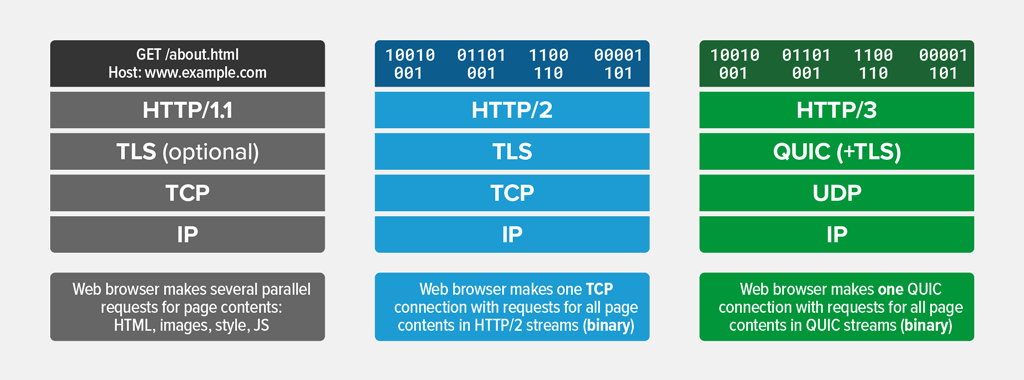
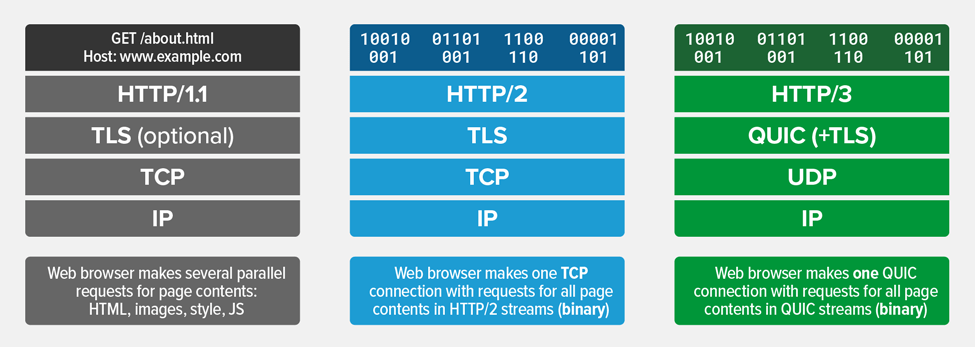
HTTP

diff --git a/stem/it/computer-science/computer-networking/communication-protocol/protocol-layer/http.md b/stem/it/computer-science/computer-networking/communication-protocol/protocol-layer/http.md
@@ -15,8 +15,10 @@
     - Line Feed (LF)：`\n`
 
 # HTTP Connection
+<div align="center"><img src="./image/http-connection.png" width="55%"></div>
+
 - ### HTTP Non-persistent/Persistent Connection
-    <img src="./image/http-connection.png" width="55%">
+    <img src="./image/http-persistent.png" width="50%">
 
     - ### HTTP Non-persistent Connection (HTTP/0.9, [HTTP/1.0](#http10))
         1. TCP connection opened
@@ -27,9 +29,16 @@
         2. send and receive Multiple HTTP requests/responses
         3. TCP connection closed
 - ### Pipelining (HTTP/1.1)
-    <img src="./image/http-pipelining.png" width="55%">
-- ### Multiplexing (HTTP/2)
-
+    <img src="./image/http-pipelining.png" width="50%">
+    
+    - #### [HTTP HOL Blocking]()
+- ### Multiplexing over a Single TCP Connection (HTTP/2)
+    - #### [Multiplexing](../../network-access/multiple-access.md#multiplexing)
+    - #### [TCP HOL Blocking]
+- ### Head-of-Line Blocking (HOL Blocking)：when a queue of packets is held up by the first packet in the queue
+    - ### HTTP HOL Blocking (Pipelining)
+        <img src="./image/http-hol-blocking.png" width="40%">
+    - ### TCP HOL Blocking (Multiplexing)：
 
 # HTTP Version
 <div align="center"><img src="./image/http-version.png" width="85%"></div>
@@ -40,11 +49,11 @@
     - #### HTTP Connection
         - [HTTP Persistent Connection](#http-persistent-connection-http11)
         - [HTTP Pipelining (Optional)](#pipelining-http11)
+    - #### HTTP HOL Blocking
 - ### HTTP/2
     - #### HTTP Connection：[Multiplexing](../../network-access/multiple-access.md#multiplexing)
 - ### HTTP/3
     - #### HTTP/3 over [QUIC](protocol-layer.md#quic)
-- ### Head-of-Line Blocking (HOL Blocking)
 
 # HTTP Method
 |HTTP Method|Description|

diff --git a/stem/it/computer-science/computer-networking/communication-protocol/protocol-layer/udp.md b/stem/it/computer-science/computer-networking/communication-protocol/protocol-layer/udp.md
@@ -1,0 +1,7 @@
+# UDP Header Format
+- ### Source Port (16 bits)
+- ### Destination Port (16 bits)
+- ### Length (16 bits)
+- ### Checksum (16 bits)
+- ### Data
+

diff --git a/stem/it/computer-science/computer-networking/communication-protocol/protocol-layer/protocol-layer.md b/stem/it/computer-science/computer-networking/communication-protocol/protocol-layer/protocol-layer.md
@@ -17,8 +17,8 @@
 - ### Remote Desktop
 
 # Transport layer
-- ### TCP/UDP
-    ||Transmission Control Protocol (TCP)|User Datagram Protocol (UDP)|
+- ### [TCP](tcp.md), [UDP](udp.md)
+    ||[Transmission Control Protocol (TCP)](tcp.md)|[User Datagram Protocol (UDP)](udp.md)|
     |:---:|:---:|:---:|
     |**Communication**|<img src="./image/tcp.png" width="70%">|<img src="./image/udp.png" width="70%">|
     |**Connection**|Connection-Oriented|Connectionless|

diff --git a/stem/it/computer-science/computer-networking/communication-protocol/protocol-layer/tcp.md b/stem/it/computer-science/computer-networking/communication-protocol/protocol-layer/tcp.md
@@ -1,0 +1,4 @@
+# TCP Header Format
+
+# Slow Start
+